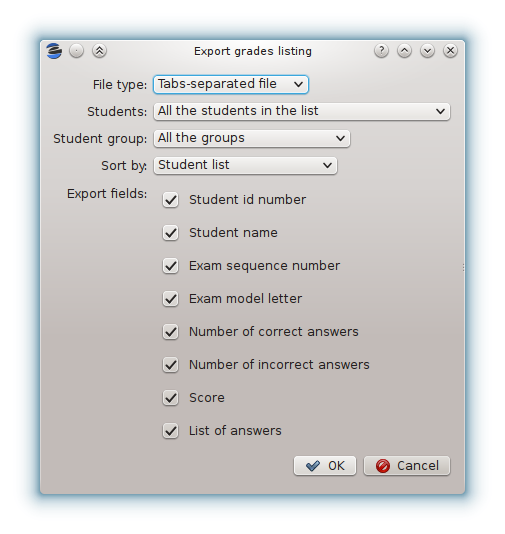
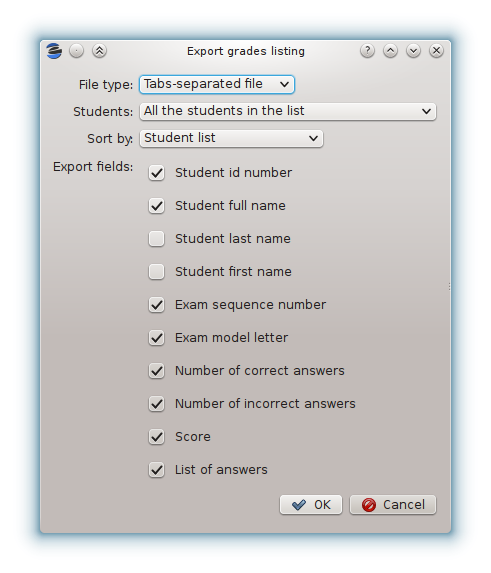
Update the documentation of exporting the listing of scores.
See issue #87.

Changed region(s): [[0.0611, 0.0599, 0.9165, 0.8989], [0.0916, 0.1199, 0.947, 0.9588]]

diff --git a/doc/user-manual/user-manual.rst b/doc/user-manual/user-manual.rst
@@ -978,7 +978,8 @@ In this dialog you have to select:
   exams.
 
 - Which fields to include in the listing: student id number, student
-  name, grading sequence number, exam model letter, number of correct
+  full name, student last name, student first name,
+  grading sequence number, exam model letter, number of correct
   and incorrect answers, score and full list of answers. Only the
   fields you check are exported (as columns of the exported file). The
   order of these fields in the exported file is the same you see in
